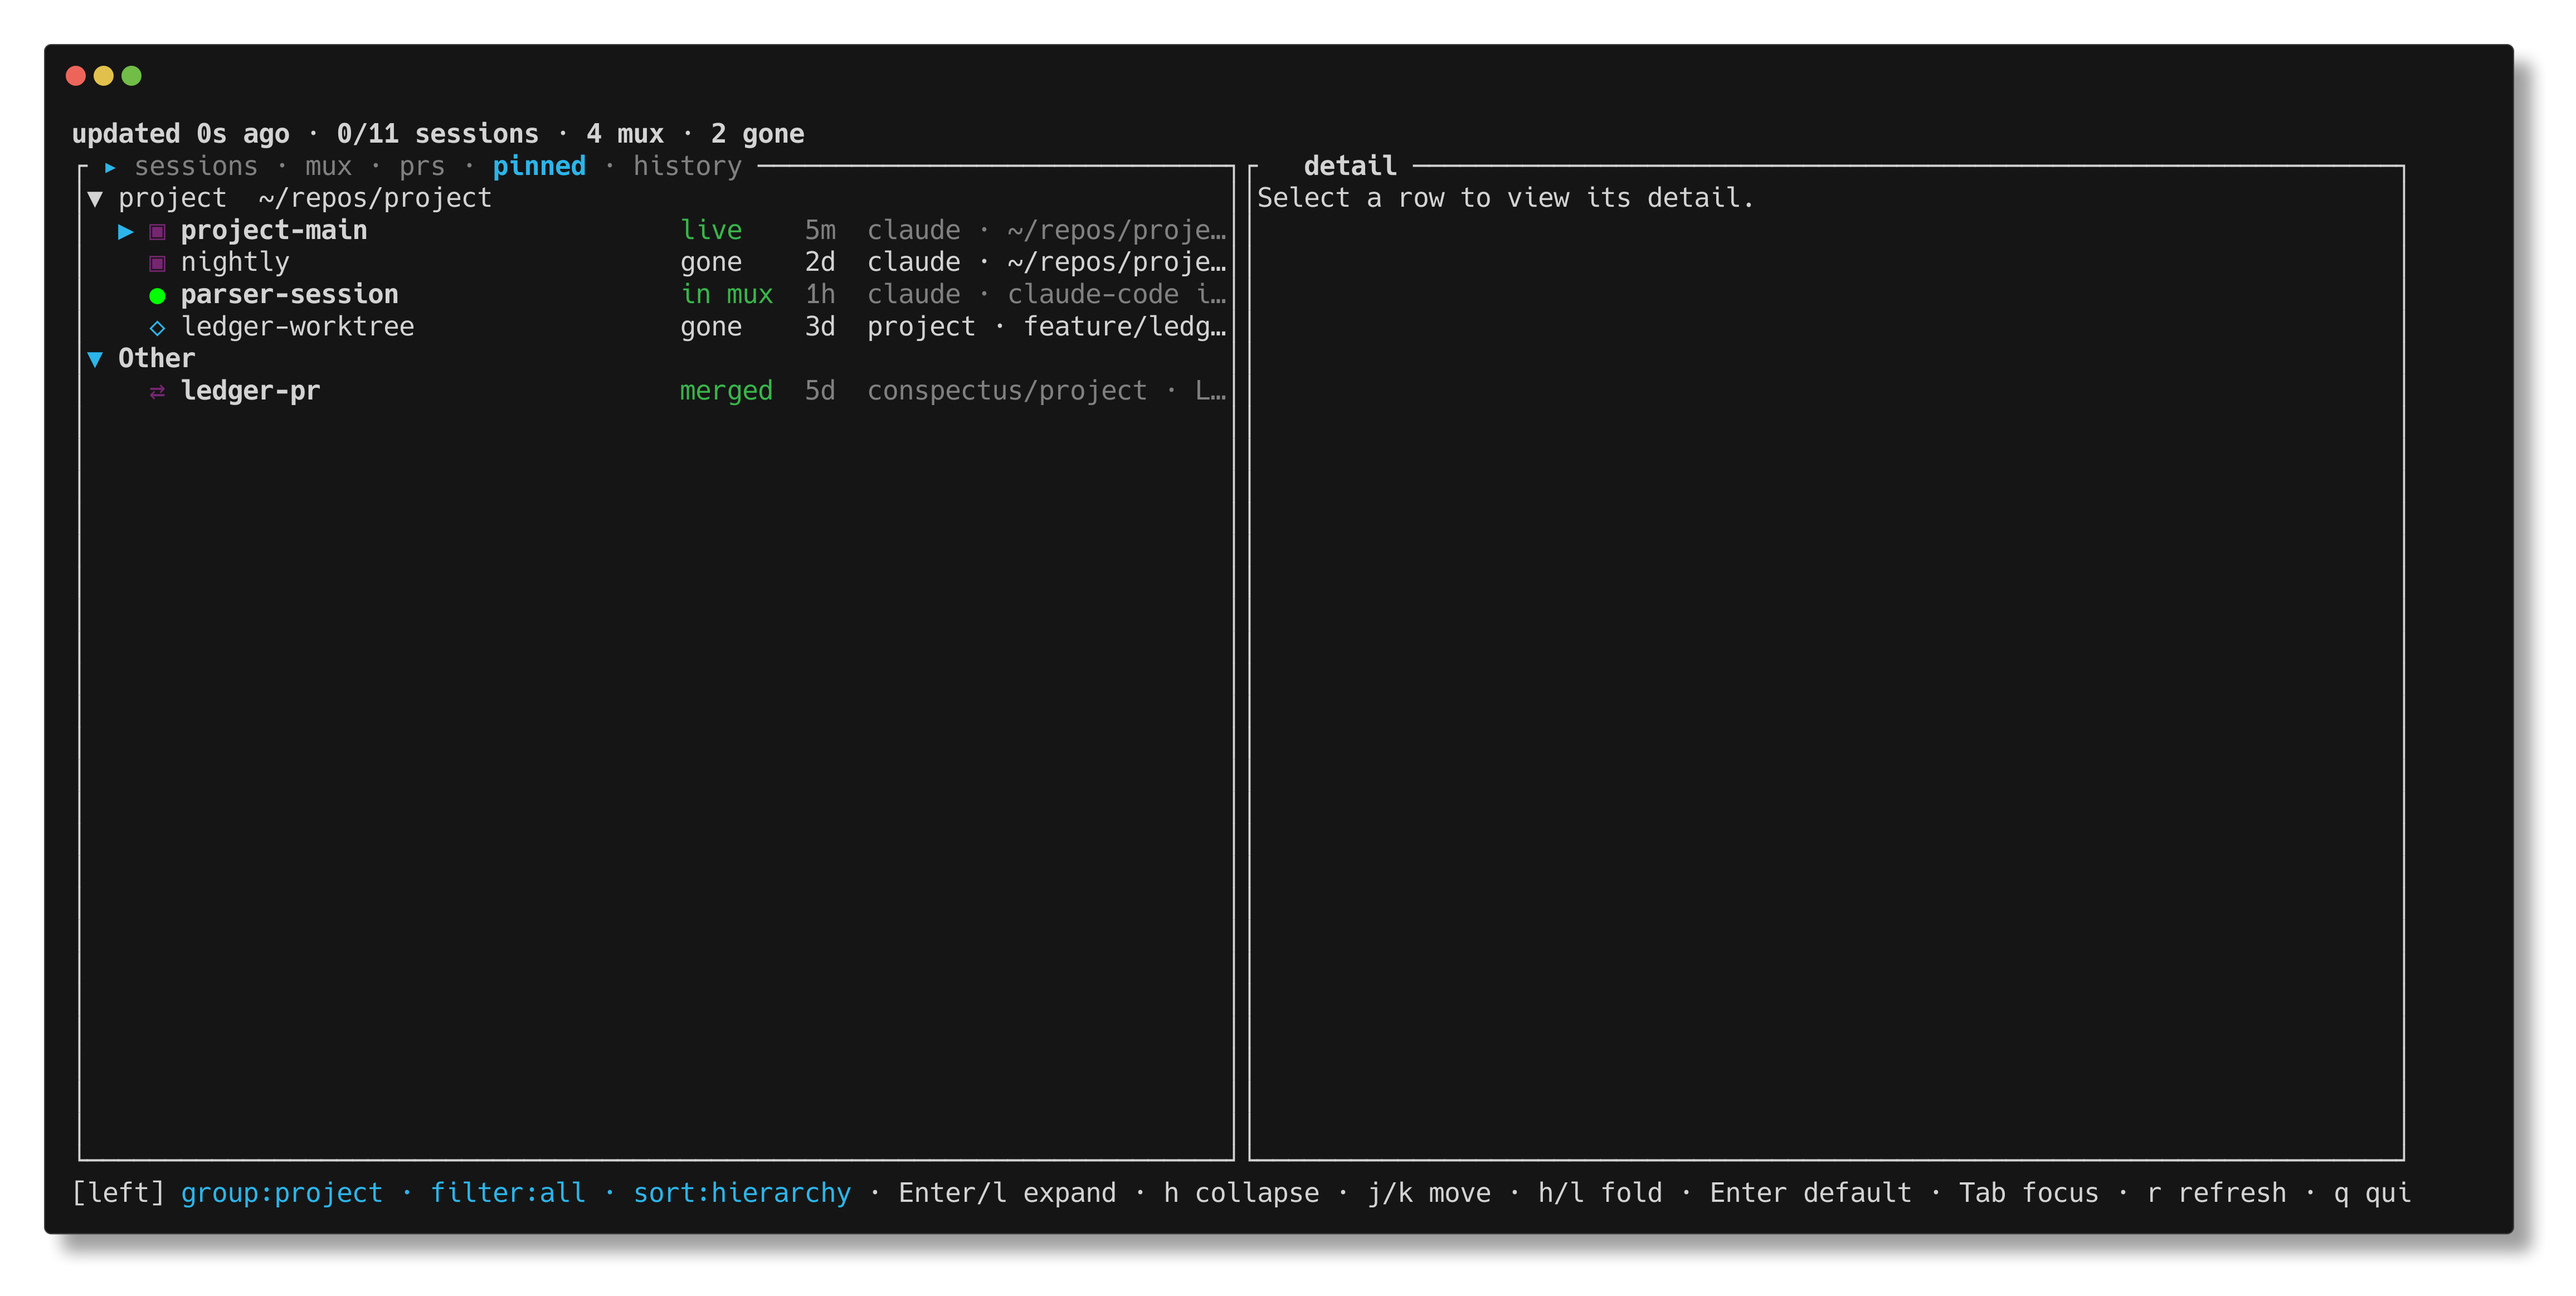
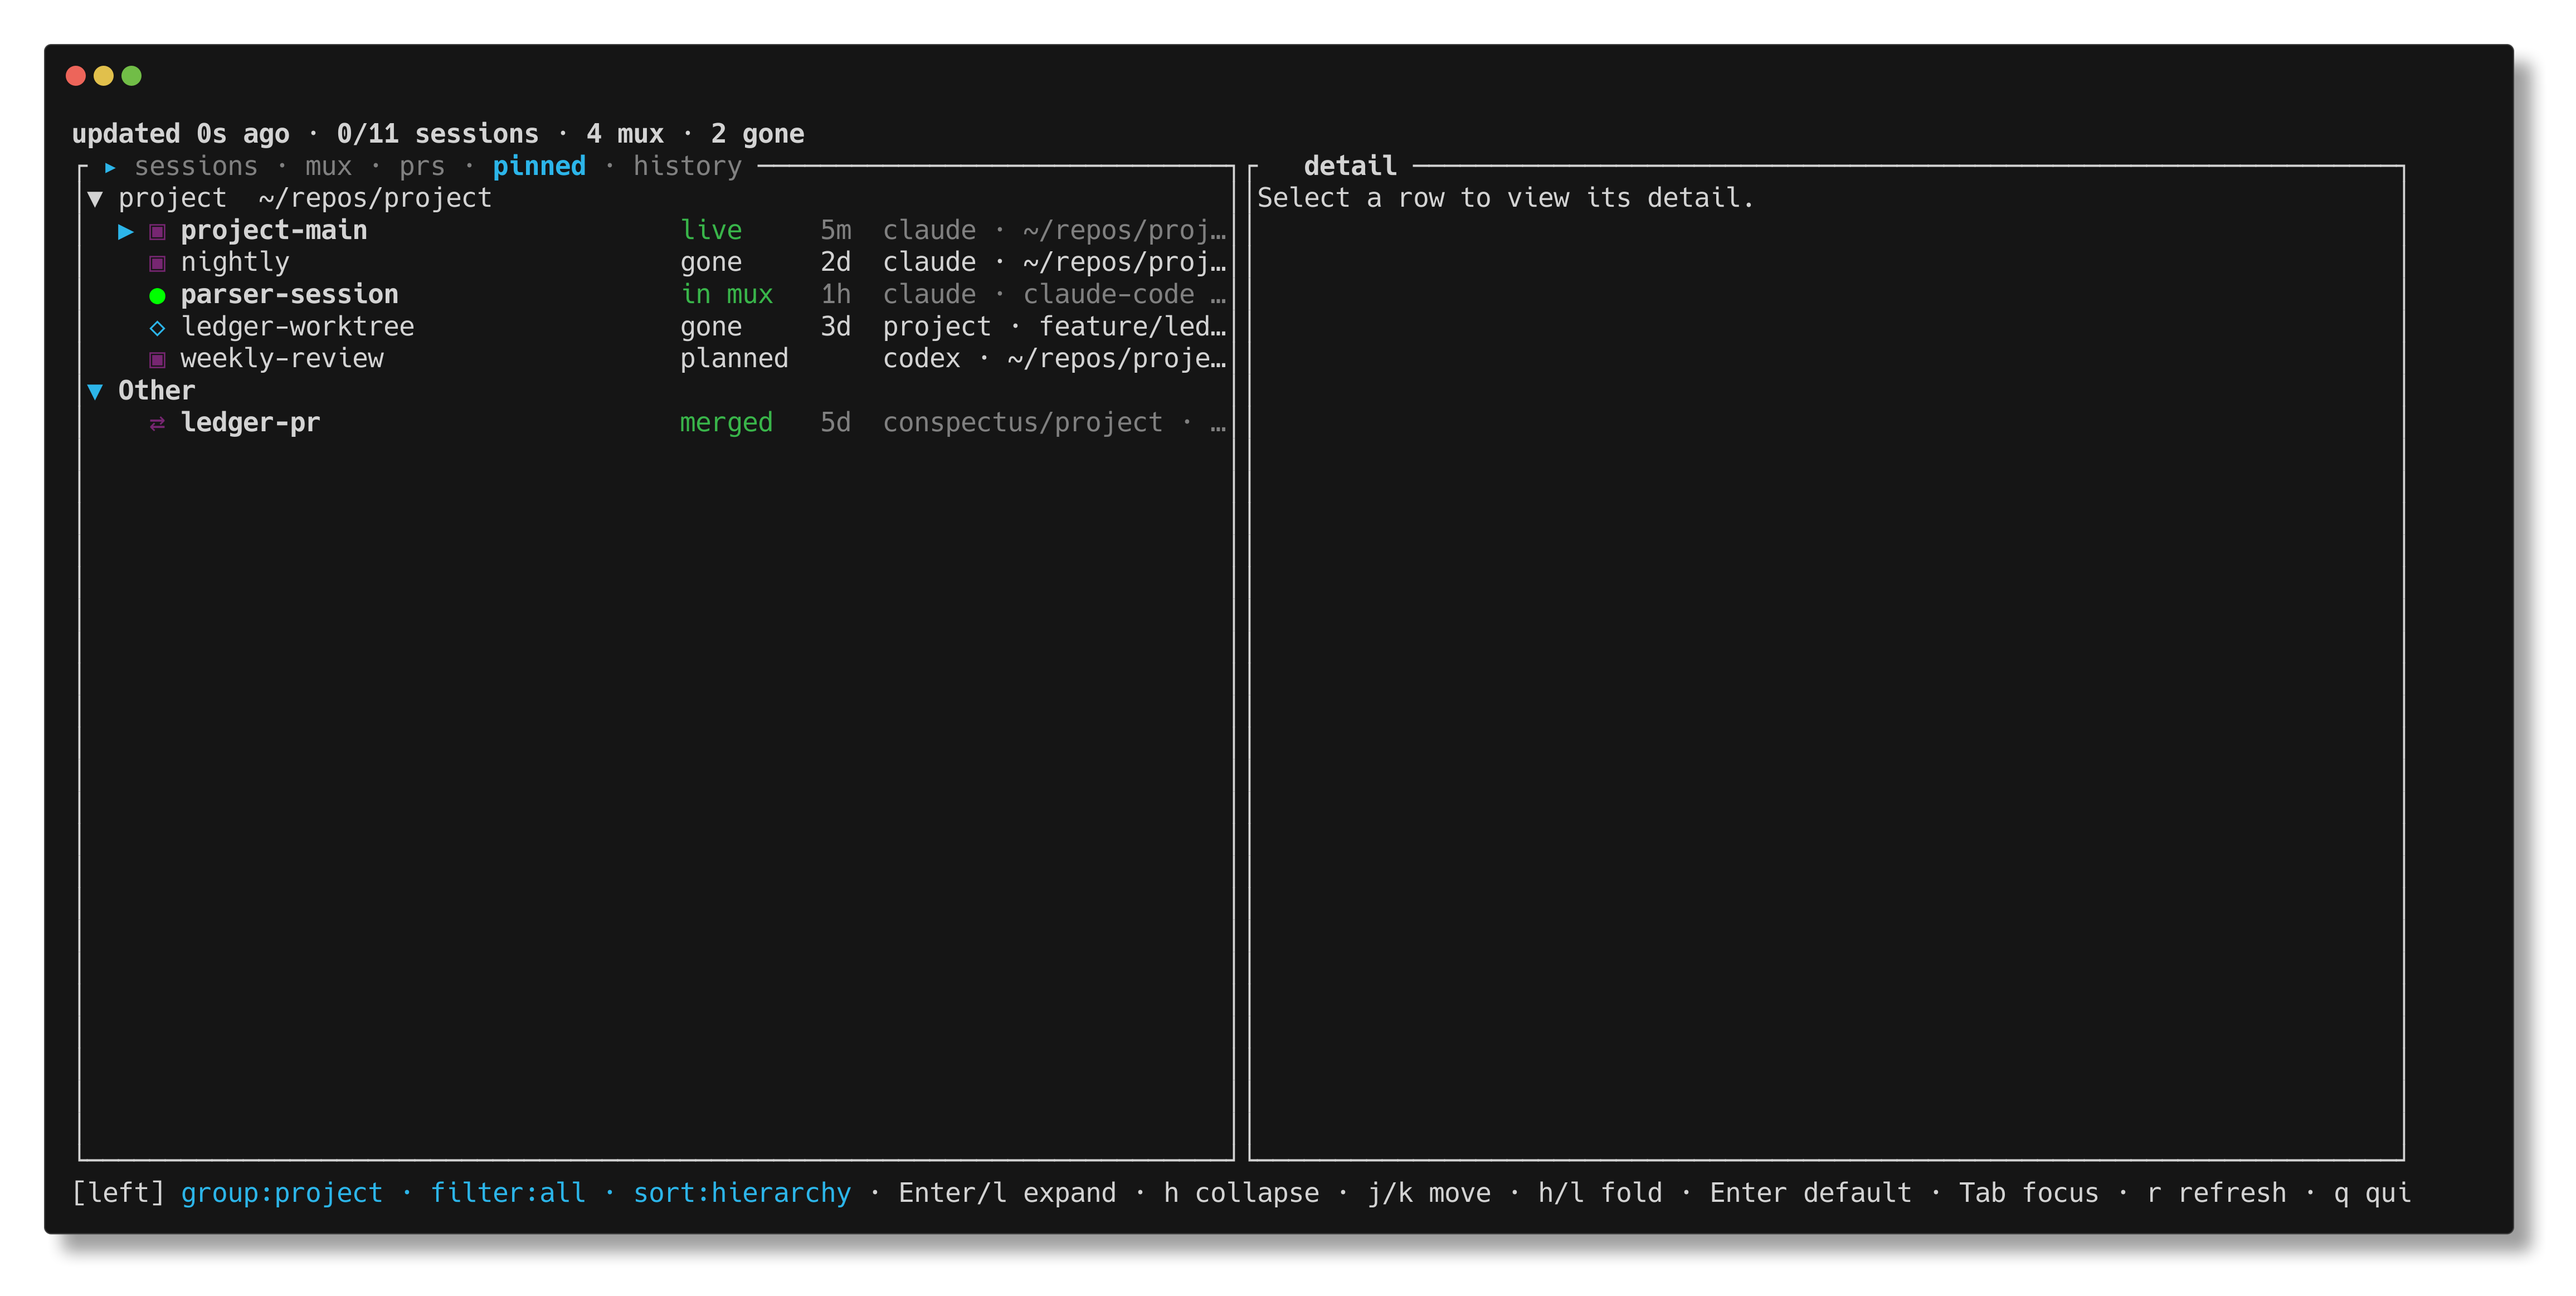
docs: add a planned slot to the showcase pins (CSP-685)

Changed region(s): [[0.3115, 0.1548, 0.4672, 0.3405], [0.0311, 0.2476, 0.1246, 0.3405], [0.2492, 0.2786, 0.3115, 0.3405]]

diff --git a/src/dev_scenarios.rs b/src/dev_scenarios.rs
@@ -1130,6 +1130,29 @@ fn add_pins_and_history_to_showcase(world: &mut ScenarioWorld, project: &Path) -
             .add(pin)
             .map_err(|err| anyhow::anyhow!("write showcase pin: {err}"))?;
     }
+    // A planned slot: nothing exists yet, and its first rebuild builds it.
+    store
+        .add(PinSlot {
+            id: "weekly-review".to_string(),
+            kind: PinKind::Mux,
+            target: None,
+            pinned_at: None,
+            overrides: SlotFields::from([
+                ("name".to_string(), FieldValue::Text("weekly-review".into())),
+                (
+                    "cwd".to_string(),
+                    FieldValue::Text(project.display().to_string()),
+                ),
+                ("harness".to_string(), FieldValue::Text("codex".into())),
+            ]),
+            snapshot: SlotFields::from([(
+                "label".to_string(),
+                FieldValue::Text("weekly-review".into()),
+            )]),
+            order: 0,
+            legacy: false,
+        })
+        .map_err(|err| anyhow::anyhow!("write showcase pin: {err}"))?;
     Ok(())
 }
 
